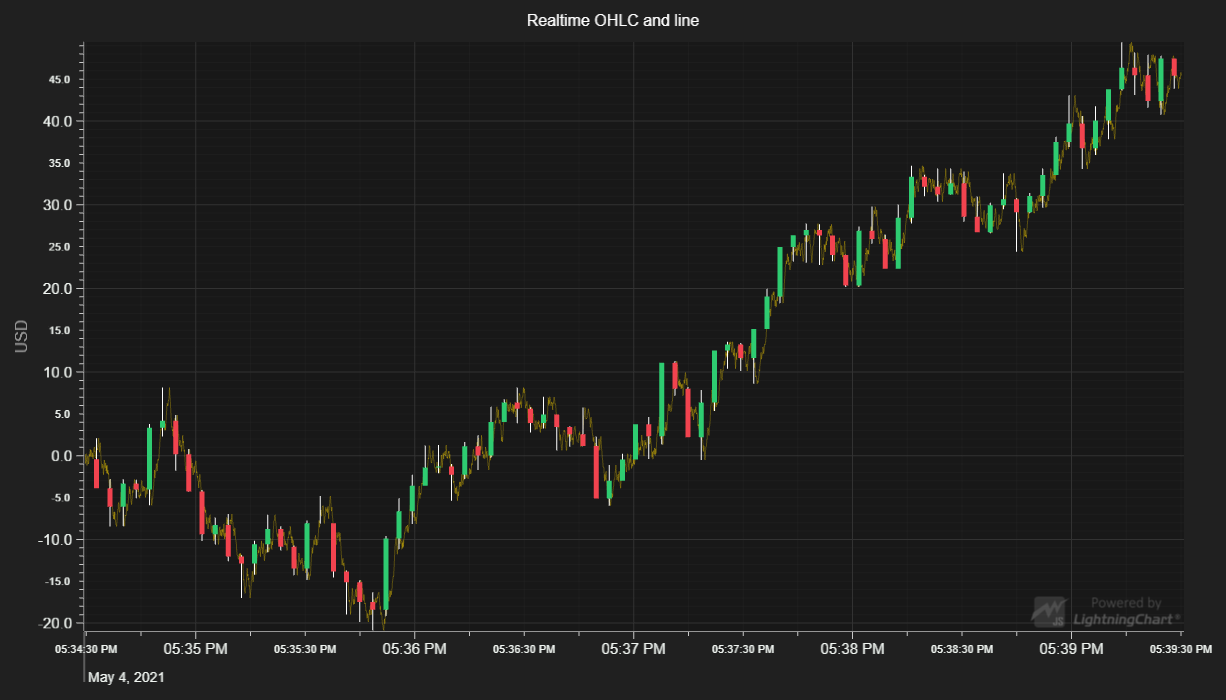
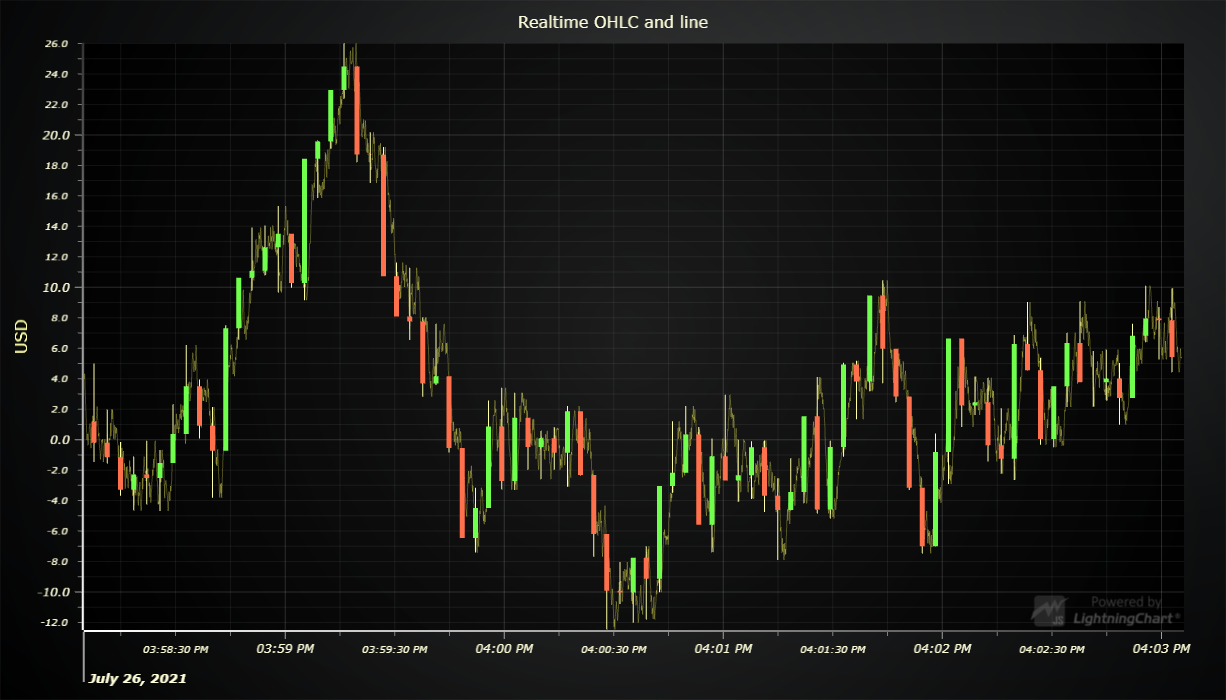
Update LCJS version

diff --git a/webpack.config.js b/webpack.config.js
@@ -69,7 +69,8 @@ module.exports = {
         }),
         new CopyWebpackPlugin({
             patterns: [
-                { from: './assets/**/*', to: './examples/assets', flatten: true, noErrorOnMissing: true }
+                { from: './assets/**/*', to: './examples/assets', flatten: true, noErrorOnMissing: true },
+                { from: './node_modules/@arction/lcjs/dist/resources', to: 'resources', noErrorOnMissing: true },
             ]
         })
     ]

diff --git a/src/index.js b/src/index.js
@@ -25,7 +25,7 @@ const dateOrigin = new Date(new Date().getTime() - fiveMinutesInMs)
 
 // Create a XY Chart.
 const chart = lightningChart().ChartXY({
-    // theme: Themes.dark
+    // theme: Themes.darkGold
 })
 // Use DateTime X-axis using previously defined origin.
 chart

diff --git a/README.md b/README.md
@@ -82,9 +82,9 @@ Direct developer email support can be purchased through a [Support Plan][4] or b
 © Arction Ltd 2009-2020. All rights reserved.
 
 
-[XY cartesian chart]: https://www.arction.com/lightningchart-js-api-documentation/v3.0.1/classes/chartxy.html
-[Axis tick strategies]: https://www.arction.com/lightningchart-js-api-documentation/v3.0.1/globals.html#axistickstrategies
-[Freeform line series]: https://www.arction.com/lightningchart-js-api-documentation/v3.0.1/classes/lineseries.html
-[OHLC series]: https://www.arction.com/lightningchart-js-api-documentation/v3.0.1/classes/chartxy.html#addohlcseries
-[OHLC series types]: https://www.arction.com/lightningchart-js-api-documentation/v3.0.1/globals.html#ohlcseriestypes
+[XY cartesian chart]: https://www.arction.com/lightningchart-js-api-documentation/v3.1.0/classes/chartxy.html
+[Axis tick strategies]: https://www.arction.com/lightningchart-js-api-documentation/v3.1.0/globals.html#axistickstrategies
+[Freeform line series]: https://www.arction.com/lightningchart-js-api-documentation/v3.1.0/classes/lineseries.html
+[OHLC series]: https://www.arction.com/lightningchart-js-api-documentation/v3.1.0/classes/chartxy.html#addohlcseries
+[OHLC series types]: https://www.arction.com/lightningchart-js-api-documentation/v3.1.0/globals.html#ohlcseriestypes
 
